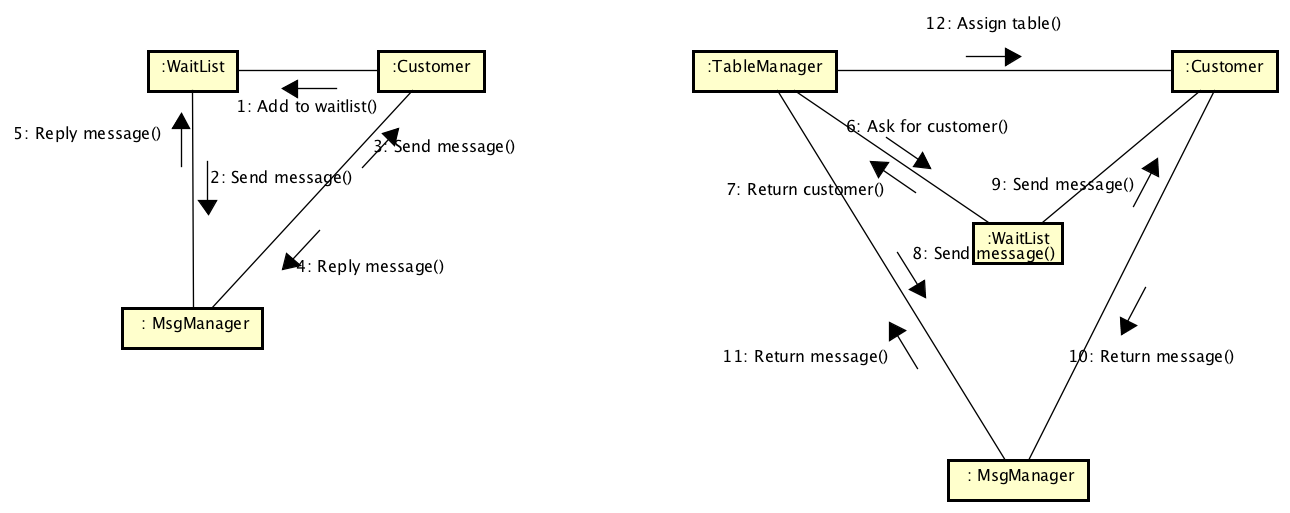
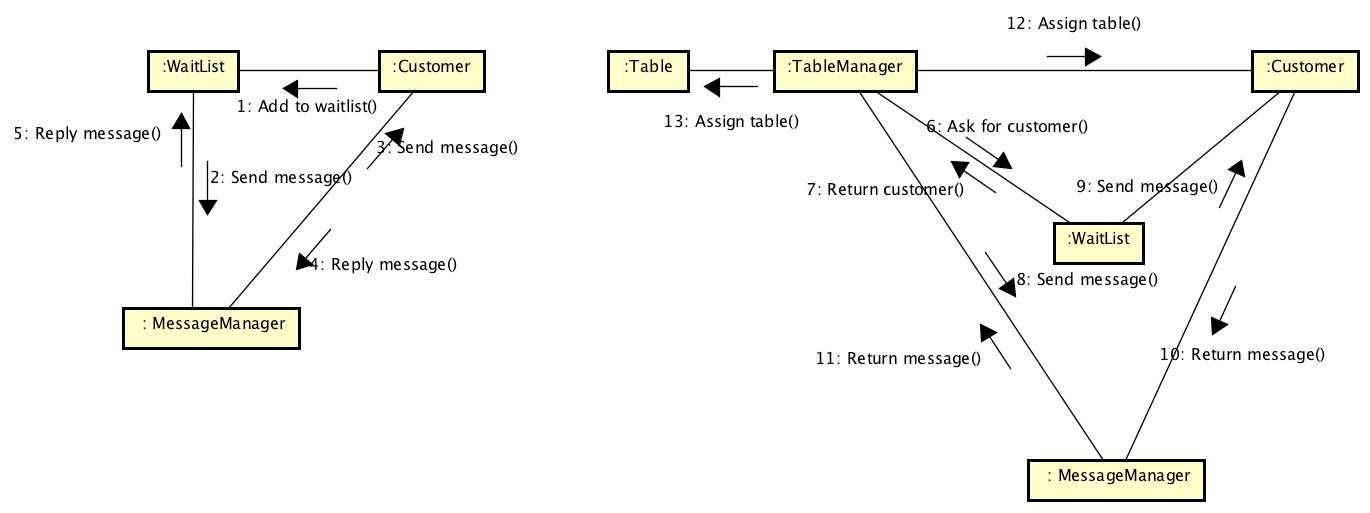
Minor change and reformat readme.

diff --git a/lab4/README.md b/lab4/README.md
@@ -1,84 +1,50 @@
--------------------------------------------------
+# CRC Cards
 
-							      Customer
+`Customer`
 
--------------------------------------------------
+| Responsibility | Collaborator |
+| ---- | ---- |
+| Send reply message | MessageManager |
 
-	Responsibility            |       Collaborator
+`Table`
 
--------------------------------------------------
+| Responsibility | Collaborator |
+| ---- | ---- |
+| Obey the scheduling of TableManager | TableManager |
 
- Send reply message       |    		 MsgManager 
+`TableManager`
 
--------------------------------------------------
+| Responsibility | Collaborator |
+| ---- | ---- |
+| Request customer with accommodatable party size | Waitlist |
+| Accomadate customers | |
+| Send message | MessageManager |
+| Get response | MessageManager |
 
+`MessageManager`
 
--------------------------------------------------
-					       TableManager
+| Responsibility | Collaborator |
+| ---- | ---- |
+| Receive message | Waitlist, TableManager, Customer |
+| Send message | Waitlist, TableManager, Customer |
 
--------------------------------------------------
+`Waitlist`
 
-Responsibility | Collaborator
+| Responsibility | Collaborator |
+| ---- | ---- |
+| Add customer to waitlist | Customer |
+| Remove customer from waitlist | Customer, TableManager |
+| Find next customer for table | TableManager |
+| Assign customer to TableManager | TableManager |
+| Get message | MessageManager |
+| Send message | MessageManager |
 
--------------------------------------------------
-Ask for customers. 			| 					WaitList
+# WHICH Pattern And WHY
 
-Assign table.						|				
+The pattern used here is **Mediator**. 
 
-Send message.					  |				     MsgManager
+The initial requirement can be viewed as assigning appropriate customer to the appropriate table. This is a "many(customers) -to-many(tables)" mapping. **Mediator** pattern is  designed for handling exatcly this scenario, by adding a mediator in between as a bridge to connect both ends. Benefit of this is both ends are now weakly instead of strongly coupled with each other. Each is only directly coupled with the mediator, making it easy to change  behavior of each independently and simplified the N-to-N convoluted network to a cleaner N-to-one-to-N network.
 
-Get message.					  | 				     MsgManager
+In my implementation, I assign a `TableManager` for each `Table`, so it could have more communicating / scheduling functions. The `Customer`s are producers (producing information like size of party, name, telephone number) and `TableManager`s are consumers (trying to fetch the appropriate customer information and assign the table for that customer, if it's vacant). The `Waitlist` here serves as the mediator coordinating both the `TableManager`s and `Customer`s.
 
--------------------------------------------------
-
-
-
--------------------------------------------------
-
-              WaitList
-
--------------------------------------------------
-
-Responsibility    |     Collaborator
-
--------------------------------------------------
-
-Add customer to waitlist.				  |           			     
-
-Remove customer from waitlist.		  |				
-
-Find a customer the table can accommodate. 	  | 
-
-Send message.					  |				MsgManager
-
-Get Message.					  | 				MsgManager
-
--------------------------------------------------
-
-
-
--------------------------------------------------
-
-               MsgManager
-
--------------------------------------------------
-
-Responsibility    |     Collaborator
-
--------------------------------------------------
-
-Send message			|		  Customer or TableManager or Waitlist			
-
-Get message.					  |		  Customer or TableManager or Waitlist			
-
--------------------------------------------------
-
-
-
-
-
-The pattern I use is Mediator. 
-
-In relationship between WaitList, Customer and TableManager, WaitList is as a mediator who coordinate TableManager and Customer. Using mediator can change the many to many mapping of table and customer into two many-to-one mapping, thus promoting loose coupling .
-
-In relationship between MsgManager, WaitList, TableManager and Customer, MsgManager is as a mediator who is responsible for sending message between WaitList and Customer(or between TableManager and Customer). The reason using this pattern is the same.
+The message sending process can also be viewed as another "many(`TableManager`s or `WaitList`)-to-many(`Customer`s). I introduced `MessageManager` as the mediator here, passing messages (confirmation message, table-ready message, customer's reply message) between all three parties involved.
